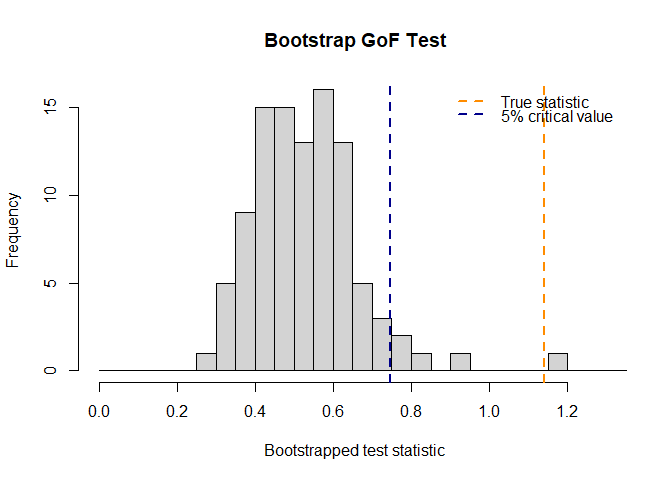
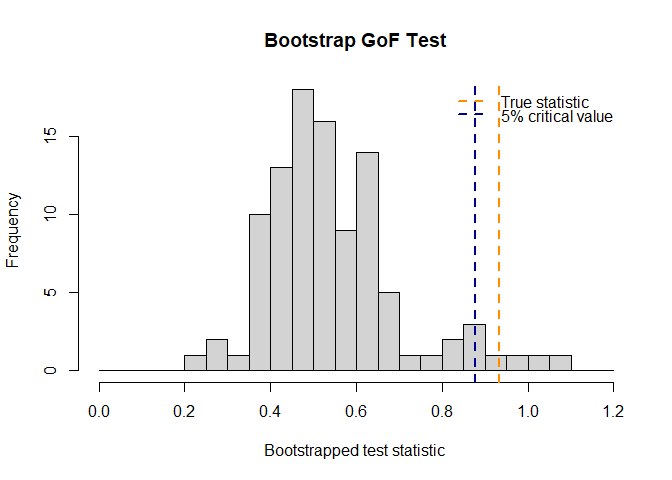
Improve example with regression under H0 + remove invalid example in `README`

diff --git a/README.md b/README.md
@@ -4,6 +4,7 @@
 # Package BootstrapTests
 
 <!-- badges: start -->
+
 <!-- badges: end -->
 
 This package BootstrapTests implements several methods to perform
@@ -123,41 +124,6 @@ print(result_valid)
 #> True test statistics:
 #>      L2      KS 
 #> 16.9997  0.0620
-
-# Showing all bootstrap combinations, including invalid options:
-result_invalid <- perform_independence_test(X1, X2, bootstrapOptions = "all and also invalid")
-#> Warning in perform_independence_test(X1, X2, bootstrapOptions = "all and also
-#> invalid"): Using 'all and also invalid' as bootstrapOptions is not recommended.
-#> This will return all theoretically valid and invalid combinations of bootstrap
-#> resampling schemes, test statistics, and norms. Please use with caution.
-print(result_invalid)
-#>          🎯Bootstrap Independence Test Results 🎯
-#>  ======================================================== 
-#> 
-#> All test results:
-#> 
-#>  type_boot type_stat norm_type bootstrapped_tests pvalues theoretically_valid
-#>      indep      cent        L2       54.0208,....    0.85               FALSE
-#>      indep      cent        KS       0.1086, ....    0.92               FALSE
-#>      indep        eq        L2       18.25465....    0.07                TRUE
-#>      indep        eq        KS       0.058, 0....    0.11                TRUE
-#>         NP      cent        L2       5.979504....    0.14                TRUE
-#>         NP      cent        KS       0.0379, ....    0.18                TRUE
-#>         NP        eq        L2       20.45643....    0.89               FALSE
-#>         NP        eq        KS       0.074, 0....    0.91               FALSE
-#>  quantile_95 quantile_99
-#>    43.576013   56.420725
-#>     0.108030    0.112460
-#>    17.645728   21.958935
-#>     0.068060    0.080064
-#>    21.241101   27.681720
-#>     0.073845    0.080874
-#>    45.224090   48.175549
-#>     0.100105    0.111205
-#> 
-#> True test statistics:
-#>      L2      KS 
-#> 16.9997  0.0620
 ```
 
 ### Slope testing in linear regression setting
@@ -196,9 +162,9 @@ print(result)
 #>   Bootstrap type           : indep
 #>   Bootstrap repetitions    : 100
 #>   Type of test statistic   : eq
-#>   Beta                     : 0.9204966 
+#>   Slope coefficient β      : 0.7940995 
 #>   p-value                  : 0
-#>   True test statistic      : 9.2050
+#>   True test statistic      : 7.9410
 plot(result)
 ```
 
@@ -208,7 +174,7 @@ plot(result)
 
 # Under H0
 X_data <- rnorm(n)
-Y_data <-  rep(1, n)  #these values are exactly constant (as b = 0 under H0)
+Y_data <- 0 * X_data + rnorm(n) 
 result <- perform_regression_test(X_data, Y_data, nBootstrap = 100)
 print(result)
 #>          🎯Bootstrap Regression Test Results 🎯
@@ -218,9 +184,9 @@ print(result)
 #>   Bootstrap type           : indep
 #>   Bootstrap repetitions    : 100
 #>   Type of test statistic   : eq
-#>   Beta                     : 1.971842e-16 
-#>   p-value                  : 0.35
-#>   True test statistic      : 0.0000
+#>   Slope coefficient β      : 0.000209957 
+#>   p-value                  : 1
+#>   True test statistic      : 0.0021
 plot(result)
 ```
 
@@ -236,57 +202,15 @@ print(result_valid)
 #> 
 #> All test results:
 #> 
-#>  type_boot type_stat pvalues bootstrapped_tests theoretically_valid
-#>      indep        eq    0.20       4.882052....                TRUE
-#>         NP      cent    0.54       1.001348....                TRUE
-#>   quantile_95  quantile_99
-#>  3.355789e-15 3.611288e-15
-#>  4.582757e-15 5.404115e-15
+#>  type_boot type_stat pvalues bootstrapped_tests theoretically_valid quantile_95
+#>      indep        eq    1.00       1.491490....                TRUE    1.750612
+#>         NP      cent    0.98       0.500202....                TRUE    1.929458
+#>  quantile_99
+#>     2.553541
+#>     2.293660
 #> 
 #> True test statistics:
-#> [1] 1.971842e-15
-
-# Showing all bootstrap combinations, including invalid options:
-result_invalid <- perform_regression_test(X_data, Y_data, bootstrapOptions = "all and also invalid")
-#> Warning in perform_regression_test(X_data, Y_data, bootstrapOptions = "all and
-#> also invalid"): Using 'all and also invalid' as bootstrapOptions is not
-#> recommended. This will return all theoretically valid and invalid combinations
-#> of bootstrap resampling schemes, and test statistics. Please use with caution.
-print(result_invalid)
-#>          🎯Bootstrap Regression Test Results 🎯
-#>  ====================================================== 
-#> 
-#> All test results:
-#> 
-#>              type_boot type_stat pvalues bootstrapped_tests theoretically_valid
-#>                  indep      cent    0.54       8.462175....               FALSE
-#>                  indep        eq    0.33       1.125624....                TRUE
-#>                     NP      cent    0.43       3.786224....                TRUE
-#>                     NP        eq    0.20       1.814382....               FALSE
-#>                 res_bs      cent    0.39       6.550954....               FALSE
-#>                 res_bs        eq    0.54       2.626937....               FALSE
-#>  fixed_design_bs_Hnull      cent    0.19       1.971035....               FALSE
-#>  fixed_design_bs_Hnull        eq    0.22       8.064584....               FALSE
-#>        fixed_design_bs      cent    0.36       1.441583....               FALSE
-#>        fixed_design_bs        eq    0.88       3.413425....               FALSE
-#>         hybrid_null_bs      cent    0.60       5.146206....               FALSE
-#>         hybrid_null_bs        eq    0.41       3.174364....               FALSE
-#>   quantile_95  quantile_99
-#>  4.504114e-15 5.877080e-15
-#>  3.121898e-15 4.381178e-15
-#>  4.153874e-15 4.990254e-15
-#>  2.725698e-15 3.592837e-15
-#>  5.126268e-15 6.480373e-15
-#>  7.098110e-15 8.452215e-15
-#>  3.468282e-15 4.465447e-15
-#>  4.235973e-15 5.608171e-15
-#>  4.483778e-15 7.505986e-15
-#>  6.455619e-15 9.477828e-15
-#>  5.562744e-15 6.082691e-15
-#>  4.306166e-15 5.175889e-15
-#> 
-#> True test statistics:
-#> [1] 1.971842e-15
+#> [1] 0.00209957
 ```
 
 ### Goodness-of-fit testing
@@ -330,8 +254,8 @@ print(result)
 #>   Bootstrap repetitions    : 100
 #>   Type of test statistic   : eq
 #>   Bootstrap estimator used : canonical 
-#>   p-value                  : 0.01
-#>   True test statistic      : 1.1406
+#>   p-value                  : 0.04
+#>   True test statistic      : 0.9334
 plot(result)
 ```
 
@@ -351,8 +275,8 @@ print(result)
 #>   Bootstrap repetitions    : 100
 #>   Type of test statistic   : eq
 #>   Bootstrap estimator used : canonical 
-#>   p-value                  : 0.61
-#>   True test statistic      : 0.4980
+#>   p-value                  : 0.04
+#>   True test statistic      : 0.8963
 plot(result)
 ```
 
